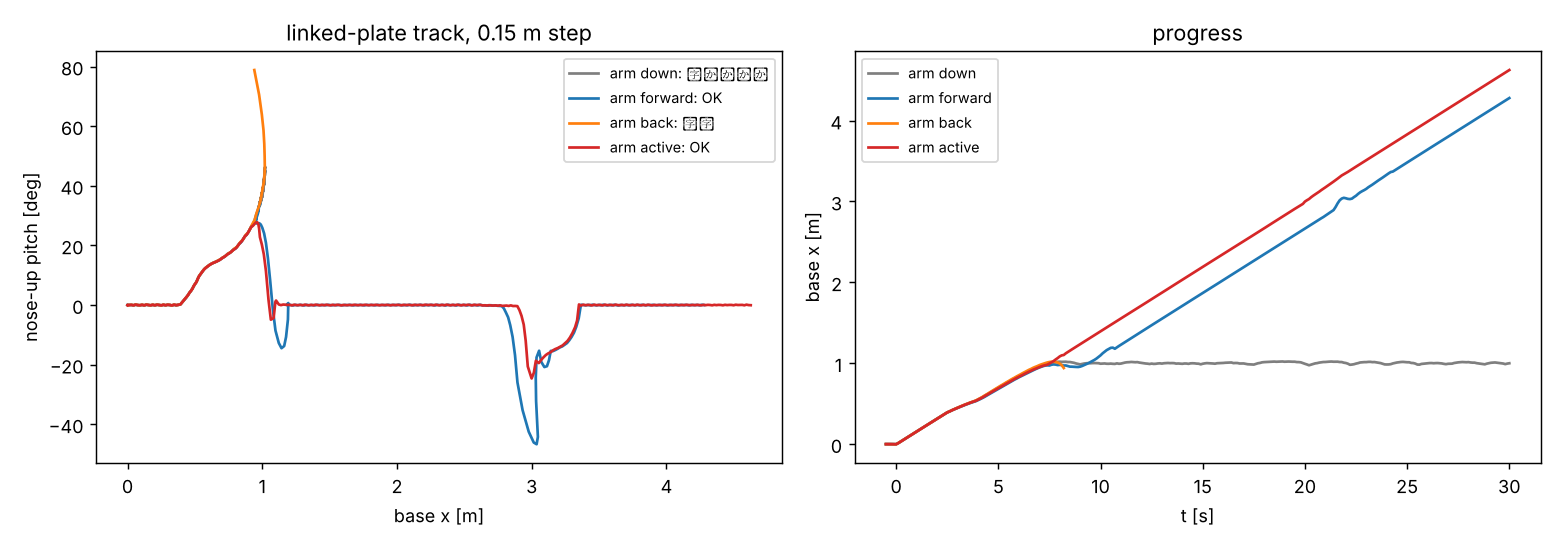
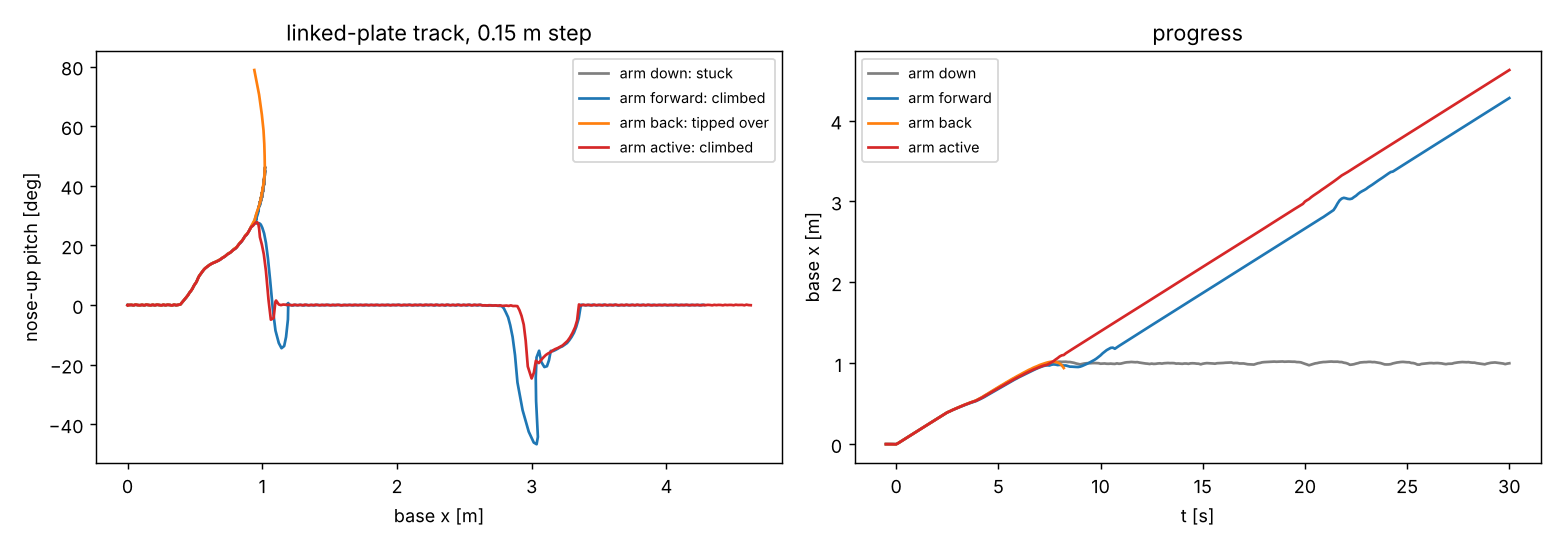
段階10: 再計算の結果を反映し、記録の誤りを修正
Claude-Session: https://claude.ai/code/session_011T5QroY7t6SiNDTQNKVyDW

Changed region(s): [[0.3385, 0.1245, 0.4923, 0.2802]]

diff --git a/docs/11_simulation_field_plan.md b/docs/11_simulation_field_plan.md
@@ -496,11 +496,11 @@ PYTHONPATH=src MUJOCO_GL=osmesa python -m ambac.field.evaluate configs/field/rob
 | 機体の形 | 腕を下ろす | 腕を能動的に動かす |
 |---|---|---|
 | 元の形（接地長 0.8 m、車体の重心 0.30 m） | 0.10 m | 0.15 m |
-| 重心を下げる（車体の重心 0.15 m） | 0.15 m（0.20 m は止まる） | **0.20 m** |
+| 重心を下げる（車体の重心 0.15 m） | 0.20 m は止まる（0.15 m 以下は試していない） | **0.20 m** |
 | 履帯を長くする（接地長 1.2 m） | **0.20 m** | **0.25 m** |
 | 長く＋重心を下げる | **0.25 m** | **0.25 m** |
 
-0.30 m では、どの形も段の壁に当たって止まった（前端の高さ 0.25 m による形の限界）。
+0.30 m では、履帯を長くした形は段の壁に当たって止まり（前端の高さ 0.25 m による形の限界）、重心を下げただけの形は後ろに転倒した。
 
 **分かったこと**
 - **段階 8 の近似は、傾向としては正しかった。** 正確なモデルでも、越えられる段差はほぼ同じ（0.05〜0.15 m）で、腕の姿勢による差の順序も同じだった。
